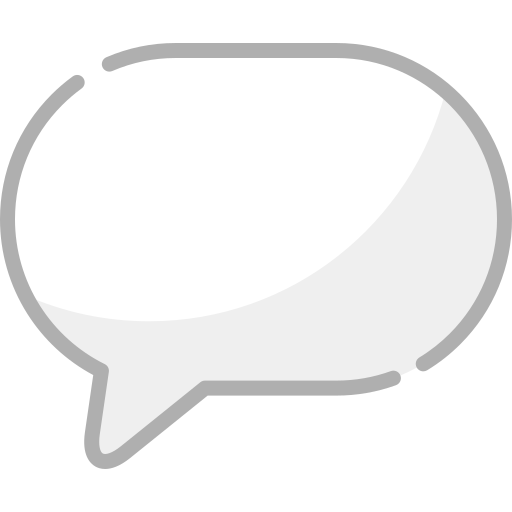
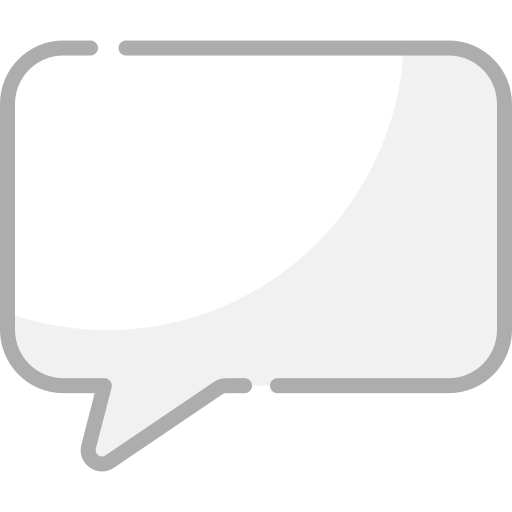
new speech bubble that appears and dissapears

diff --git a/Assets/Scripts/Speech.cs b/Assets/Scripts/Speech.cs
@@ -18,7 +18,6 @@ using System.Collections;
 
 public class Speech : MonoBehaviour
 {
-    // Hook up the two properties below with a Text and Button object in your UI.
     public TextMeshProUGUI outputText;
 
     public Button startRecoButton;
@@ -31,7 +30,8 @@ public class Speech : MonoBehaviour
 
     private bool micPermissionGranted = false;
 
-    // Variable to store the recognized speech
+    private GlobalUi globalUI;
+
     private string recognizedSpeech;
 
[1 lines of base64/hex data omitted]
@@ -162,6 +162,8 @@ public class Speech : MonoBehaviour
     {
         var config = SpeechConfig.FromSubscription(speechAIKey, speechAIRegion);
 
+        RunOnMainThread(() => globalUI?.SetSpeechBubble(true));
+
         using (var synthesizer = new SpeechSynthesizer(config))
         {
             string ssml = $@"
@@ -178,19 +180,31 @@ public class Speech : MonoBehaviour
             if (result.Reason == ResultReason.SynthesizingAudioCompleted)
             {
                 Debug.Log("Speech synthesized: " + textToSpeak);
+                Debug.Log("Bubble should hide");
             }
             else
             {
                 Debug.LogError("Speech synthesis failed.");
             }
         }
+
+        RunOnMainThread(() => globalUI?.SetSpeechBubble(false));
     }
 
-
-
+    private void RunOnMainThread(System.Action action)
+    {
+        UnityMainThreadDispatcher.Instance().Enqueue(action);
+    }
 
     void Start()
     {
+        globalUI = FindObjectOfType<GlobalUi>();
+
+        if (globalUI == null)
+        {
+            Debug.LogError("GlobalUI component not found in the scene.");
+        }
+
         if (outputText == null)
         {
             UnityEngine.Debug.LogError("outputText property is null! Assign a UI Text element to it.");

diff --git a/Assets/Scripts/UnityMainThreadDispatcher.cs b/Assets/Scripts/UnityMainThreadDispatcher.cs
@@ -1,0 +1,41 @@
+using System;
+using System.Collections.Generic;
+using UnityEngine;
+
+public class UnityMainThreadDispatcher : MonoBehaviour
+{
+    private static readonly Queue<Action> _executionQueue = new Queue<Action>();
+
+    private static UnityMainThreadDispatcher _instance;
+
+    public static UnityMainThreadDispatcher Instance()
+    {
+        if (_instance == null)
+        {
+            var obj = new GameObject("UnityMainThreadDispatcher");
+            _instance = obj.AddComponent<UnityMainThreadDispatcher>();
+            DontDestroyOnLoad(obj);
+        }
+        return _instance;
+    }
+
+    public void Enqueue(Action action)
+    {
+        lock (_executionQueue)
+        {
+            _executionQueue.Enqueue(action);
+        }
+    }
+
+    void Update()
+    {
+        lock (_executionQueue)
+        {
+            while (_executionQueue.Count > 0)
+            {
+                var action = _executionQueue.Dequeue();
+                action?.Invoke();
+            }
+        }
+    }
+}

diff --git a/Assets/Scripts/GlobalUi.cs b/Assets/Scripts/GlobalUi.cs
@@ -15,6 +15,9 @@ public class GlobalUi : MonoBehaviour
     private Image[] emotionFaces;
 
 
+    [Header("Speech")]
+    public GameObject speechBubble;
+
     private void Start()
     {
         emotionFaces = EmotionsPanel.GetComponentsInChildren<Image>(true);
@@ -54,5 +57,17 @@ public class GlobalUi : MonoBehaviour
         emotionFace.color = new Color(255, 255, 255, 1);
     }
 
+
+    public void SetSpeechBubble(bool isActive)
+    {
+        if (speechBubble != null)
+        {
+            speechBubble.SetActive(isActive);
+        }
+        else
+        {
+            Debug.LogError("SpeechBubble is not assigned in GlobalUI.");
+        }
+    }
 
 }
